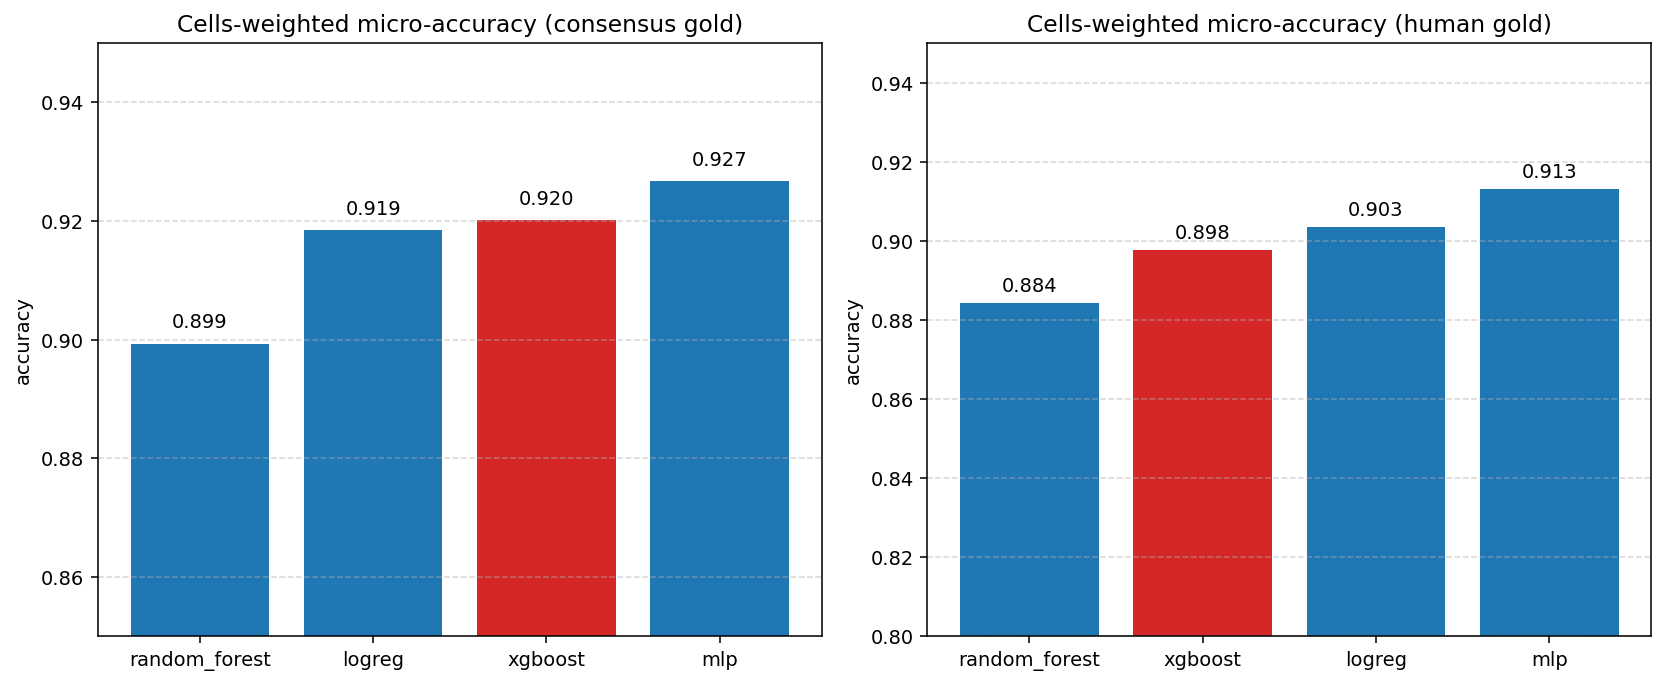
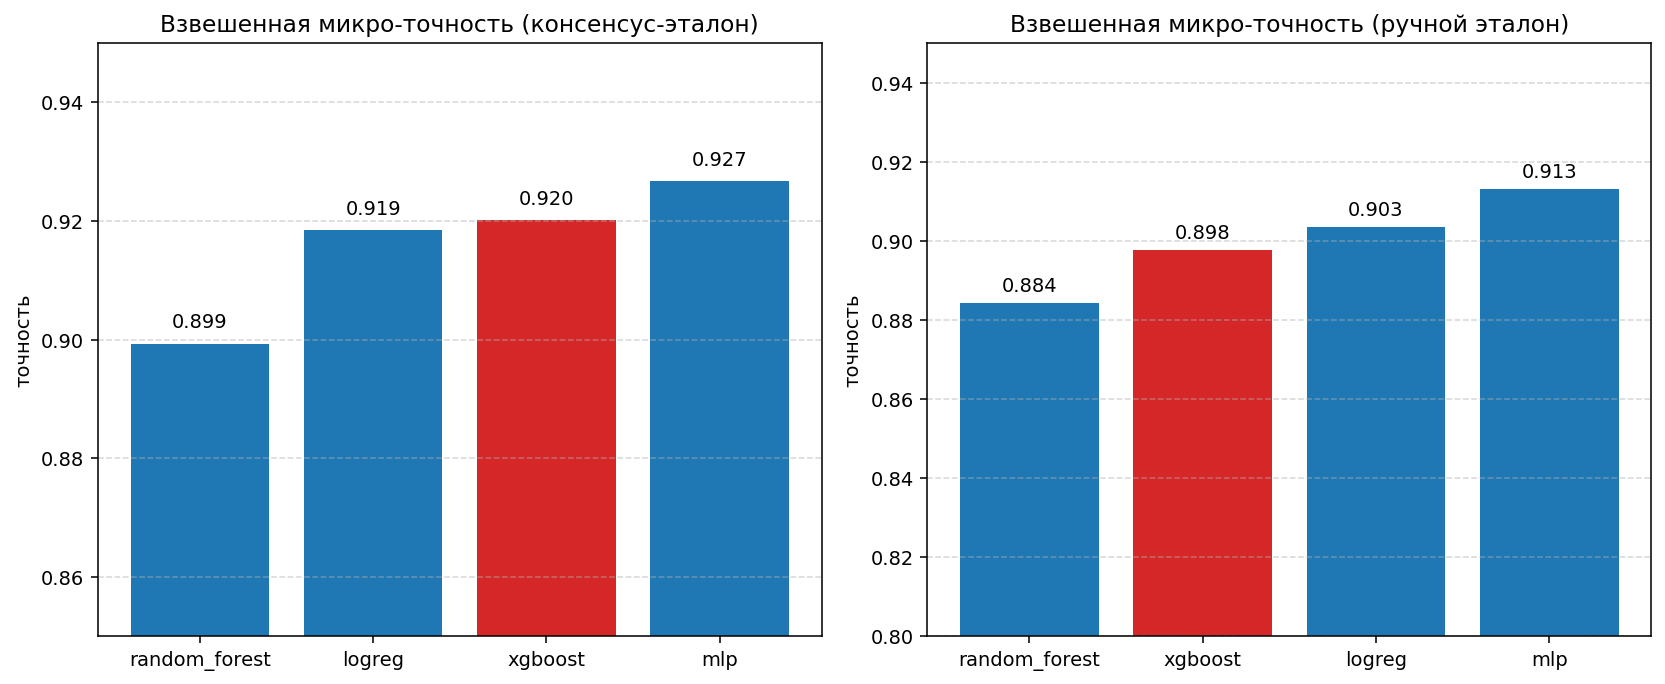
fix(thesis): ∪→\$\cup\$, перевод подписей диаграммы на русский
- \texttt{override ∪ manual\_only}: заменить U+222A на \$\cup\$ —
  Times New Roman не содержит символ объединения, отображался □
- Ячейка 11 notebook 05: заголовки и ось Y диаграммы bar-chart
  («Cells-weighted micro-accuracy», «accuracy») переведены на русский
- Подпись рисунка 9 в ch3: «Cells-weighted micro-accuracy...» →
  «Взвешенная микро-точность...»
- Регенерирован images/method_comparison_bar.png с русскими метками

diff --git a/report/contents/4-chapter3-implementation.tex b/report/contents/4-chapter3-implementation.tex
@@ -289,7 +289,7 @@
 
 \begin{figure}
   \includegraphics[width=0.95\textwidth]{method_comparison_bar.png}
-  \caption{Cells-weighted micro-accuracy классификаторов Слоя 2 на эталонах consensus gold и human gold}
+  \caption{Взвешенная микро-точность классификаторов Слоя 2 на консенсус-эталоне и ручном эталоне}
   \label{fig:method_comparison_bar}
 \end{figure}
 
@@ -411,19 +411,19 @@ XGBoost выигрывает у Random Forest (16/16 атрибутов, $+2{,}1
     Срез & n & До переобучения & После переобучения & Δ \\ \hline
 \endhead
     all\_audited & 1841 & 81,9 \% & 86,4 \% & +4,5 п. п. \\ \hline
-    \texttt{override ∪ manual\_only} & 220 & 39,5 \% & 57,7 \% & +18,2 п. п. \\ \hline
+    \texttt{override} $\cup$ \texttt{manual\_only} & 220 & 39,5 \% & 57,7 \% & +18,2 п. п. \\ \hline
     confirmed & 1621 & 87,6 \% & 90,3 \% & +2,7 п. п. \\ \hline
 \end{xltabular}
 
-Эффект локализован: на pasta\_shape точность на подмножестве \texttt{override ∪ manual\_only} (83 ячейки) выросла с 22,9~\% до 72,3~\% (+49,4~п.~п.). Точечная правка даёт концентрированный сдвиг: +18,2~п.~п. на сложном срезе против +2,7 на confirmed.
+Эффект локализован: на pasta\_shape точность на подмножестве \texttt{override} $\cup$ \texttt{manual\_only} (83 ячейки) выросла с 22,9~\% до 72,3~\% (+49,4~п.~п.). Точечная правка даёт концентрированный сдвиг: +18,2~п.~п. на сложном срезе против +2,7 на confirmed.
 
 \subsubsection{Кросс-категорийная репликация цикла 3/3}
 
 Тот же цикл применён к chocolate и cheeses (\texttt{cross\_domain\_audit\_summary.json}).
 
-В chocolate (1530 ячеек) аудит выявил дефект бинаризации cocoa\_percentage — расхождение конвенции серебра и индустриальной интерпретации метки «70 \%». После перехода на конвенцию \texttt{[X, Y)} точность на \texttt{override ∪ manual\_only} cocoa\_percentage поднялась с 10,8 \% до 31,5 \%; агрегированный прирост по домену +16,3 п. п.
+В chocolate (1530 ячеек) аудит выявил дефект бинаризации cocoa\_percentage — расхождение конвенции серебра и индустриальной интерпретации метки «70 \%». После перехода на конвенцию \texttt{[X, Y)} точность на \texttt{override} $\cup$ \texttt{manual\_only} cocoa\_percentage поднялась с 10,8 \% до 31,5 \%; агрегированный прирост по домену +16,3 п. п.
 
-В cheeses (1655 ячеек) аудит обнаружил систематически завышенные пороги fat\_class (86 сдвигов вверх против 16 обратных). После установки порогов (15, 20, 28) г/100 г точность на \texttt{override ∪ manual\_only} fat\_class выросла с 2,7 \% до 69,9 \%; агрегированный прирост по домену +14,4 п. п.
+В cheeses (1655 ячеек) аудит обнаружил систематически завышенные пороги fat\_class (86 сдвигов вверх против 16 обратных). После установки порогов (15, 20, 28) г/100 г точность на \texttt{override} $\cup$ \texttt{manual\_only} fat\_class выросла с 2,7 \% до 69,9 \%; агрегированный прирост по домену +14,4 п. п.
 
 Цикл воспроизведён 3/3 на независимых категориях с разными типами дефектов (порядок обхода тегов, сдвиг границ бакетирования, выбор порогов численного атрибута). Значит, последовательность «обнаружение — правка — регенерация серебра — переобучение — измерение» можно считать переносимым приёмом, а не разовым улучшением.
 
